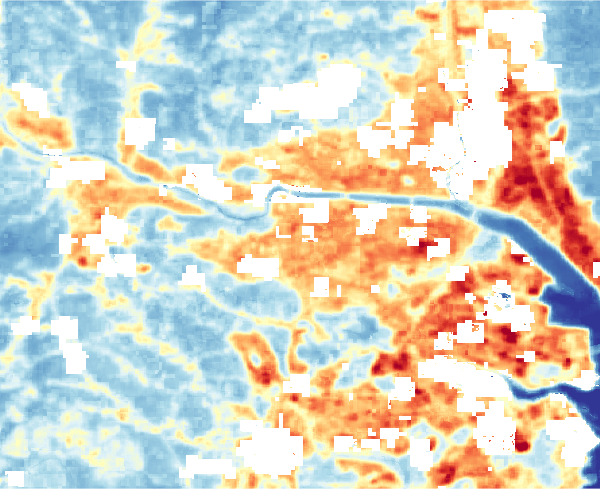
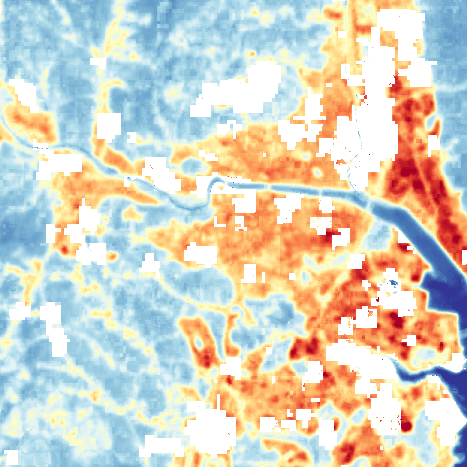
Add files via upload

diff --git a/make_lst.py b/make_lst.py
@@ -21,6 +21,7 @@ from places import PLACES
 PROJECT = "climate-2026"
 YEARS = (2021, 2025)  # 2021~2025년 여름 (Landsat 9 발사 이후 포함)
 HALF_KM = 7  # 동네 중심에서 위아래·좌우 7km (14km 네모)
+RES_M = 30  # Landsat 열적외 자료의 칸 크기(m)
 VIS_MIN, VIS_MAX = 25, 50  # 색 범위(℃). 모든 동네를 같은 색 범위로 그려야 서로 비교할 수 있어요
 PALETTE = ["313695", "4575b4", "74add1", "abd9e9", "e0f3f8", "ffffbf", "fee090", "fdae61", "f46d43", "d73027", "a50026"]
 OUT = Path(__file__).parent / "data" / "lst"
@@ -60,8 +61,11 @@ def main():
         ).getInfo()
         center = lst.reduceRegion(ee.Reducer.mean(), ee.Geometry.Point([lon, lat]).buffer(300), 30).getInfo()
 
+        # 30m 칸 하나 = 그림 1픽셀 (적응 영수증과 같은 원본 해상도). 웹지도와 같은 좌표계(EPSG:3857)로 받아야
+        # 지도에 겹쳤을 때 칸이 어긋나지 않아요.
+        px = round(2 * HALF_KM * 1000 / RES_M)
         url = lst.getThumbURL({
-            "region": region, "dimensions": 600, "format": "png",
+            "region": region, "dimensions": f"{px}x{px}", "crs": "EPSG:3857", "format": "png",
             "min": VIS_MIN, "max": VIS_MAX, "palette": PALETTE,
         })
         png = OUT / f"lst_{i:02d}.png"
@@ -79,7 +83,7 @@ def main():
         }
         print(ascii(name), index[name])
 
-    meta = {"years": YEARS, "vis": [VIS_MIN, VIS_MAX], "palette": PALETTE, "places": index}
+    meta = {"years": YEARS, "vis": [VIS_MIN, VIS_MAX], "palette": PALETTE, "res_m": RES_M, "places": index}
     (OUT / "index.json").write_text(json.dumps(meta, ensure_ascii=False, indent=1), encoding="utf-8")
     print("done", len(index))
 

diff --git a/satellite.py b/satellite.py
@@ -33,6 +33,8 @@ def deck(info: dict, lat: float, lon: float, shelters: pd.DataFrame | None, opac
             image=pdk.types.String(png_data_uri(info["file"])),
             bounds=[[west, south], [west, north], [east, north], [east, south]],
             opacity=opacity,
+            # 칸 사이를 부드럽게 섞지 말고 30m 칸을 네모 그대로 보여 주기 (적응 영수증의 'nearest' 방식)
+            texture_parameters={"minFilter": "nearest", "magFilter": "nearest"},
         )
     ]
     if shelters is not None and len(shelters):
@@ -64,7 +66,7 @@ def deck(info: dict, lat: float, lon: float, shelters: pd.DataFrame | None, opac
     )
     return pdk.Deck(
         layers=layers,
-        initial_view_state=pdk.ViewState(latitude=lat, longitude=lon, zoom=11.3),
+        initial_view_state=pdk.ViewState(latitude=lat, longitude=lon, zoom=14),  # 동네 주변 약 3km가 보이는 크기: 30m 칸이 네모로 또렷하게 보여요
         tooltip={"text": "{이름}"},
         map_style="light",
     )

diff --git a/app.py b/app.py
@@ -151,7 +151,7 @@ else:
     s2.metric("뜨거운 곳 (상위 10%)", f"{info['p90']} ℃")
     s3.metric("시원한 곳 (하위 10%)", f"{info['p10']} ℃")
     st.caption(
-        f"Landsat 8·9 위성의 지표면온도(땅 표면 온도) {y0}~{y1}년 6~8월, 구름 없는 사진 {info['scenes']}장의 중앙값이에요. "
+        f"Landsat 8·9 위성의 지표면온도(땅 표면 온도) {y0}–{y1}년 6–8월, 구름 없는 사진 {info['scenes']}장의 중앙값이에요. "
         "위성이 오전 11시쯤 지나갈 때 잰 값이고, 공기 온도가 아니라 땅이 달궈진 정도라서 기온보다 훨씬 높게 나와요. "
         "빨간 곳은 아스팔트·지붕·공장이 많은 곳, 파란 곳은 숲·강·논이에요. 검은 점은 우리 동네, 파란 점은 무더위쉼터예요. "
         "자료: NASA·USGS Landsat (Google Earth Engine으로 계산)"
